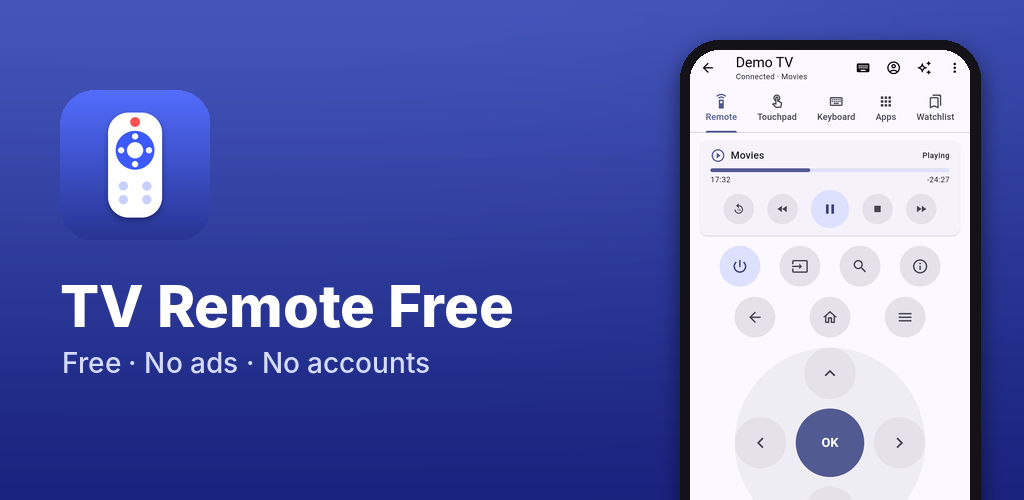
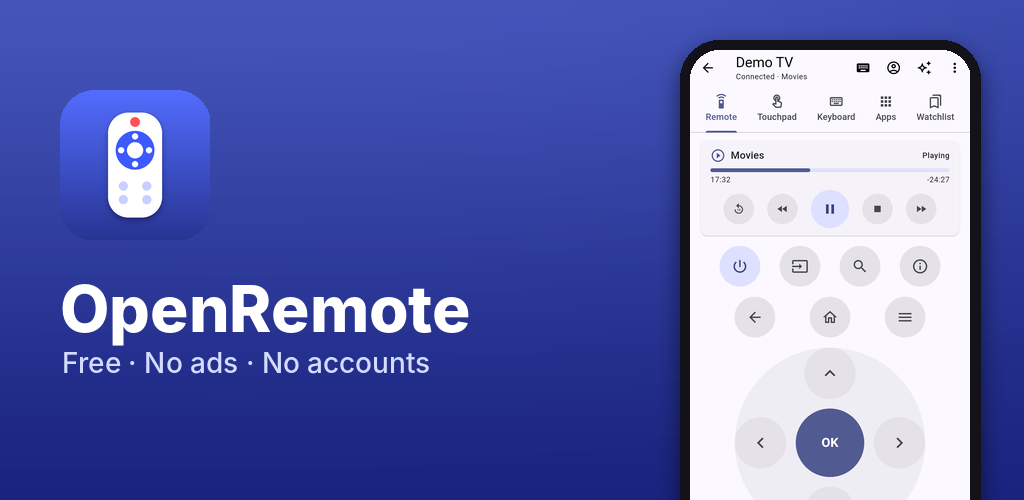
Rename the app to OpenRemote: TV Remote
Display name on both platforms, in-app title and About, the name shown
on TVs when pairing, privacy policy, docs, listing and feature graphic.
Theme/layout file format ids (tv-remote-free-*) are unchanged so
exported files keep working.

Claude-Session: https://claude.ai/code/session_01VuCDHX3dnNtg4HYbL8SU2y

Changed region(s): [[0.0625, 0.57, 0.5, 0.69]]

diff --git a/android/app/src/main/kotlin/org/tvremotefree/tv_remote_free/MainActivity.kt b/android/app/src/main/kotlin/org/tvremotefree/tv_remote_free/MainActivity.kt
@@ -33,7 +33,7 @@ class MainActivity : FlutterActivity() {
         super.configureFlutterEngine(flutterEngine)
         val messenger = flutterEngine.dartExecutor.binaryMessenger
 
-        // Links shared from other apps ("Share" -> TV Remote Free) go to the
+        // Links shared from other apps ("Share" -> OpenRemote) go to the
         // watchlist. Dart pulls the launch share and is pushed later ones.
         shareChannel = MethodChannel(messenger, "tv_remote_free/share").apply {
             setMethodCallHandler { call, result ->

diff --git a/lib/features/settings/settings_screen.dart b/lib/features/settings/settings_screen.dart
@@ -191,7 +191,7 @@ class SettingsScreen extends ConsumerWidget {
           ),
           const AboutListTile(
             icon: Icon(Icons.info_outline),
-            applicationName: 'TV Remote Free',
+            applicationName: 'OpenRemote',
             applicationLegalese:
                 'Free and open source under the Apache License 2.0. No ads, '
                 'no tracking, no accounts. Works only on your local network.\n\n'

diff --git a/lib/app/app.dart b/lib/app/app.dart
@@ -67,7 +67,7 @@ class _TvRemoteAppState extends ConsumerState<TvRemoteApp> {
     final themeMode = ref.watch(settingsProvider.select((s) => s.themeMode));
     final theme = ref.watch(activeThemeProvider);
     return MaterialApp(
-      title: 'TV Remote Free',
+      title: 'OpenRemote',
       navigatorKey: _navigator,
       debugShowCheckedModeBanner: false,
       theme: AppTheme.light(theme),

diff --git a/lib/protocols/samsung/samsung_adapter.dart b/lib/protocols/samsung/samsung_adapter.dart
@@ -25,7 +25,7 @@ class SamsungAdapter implements SmartTVAdapter {
     required this.host,
     this.endpoints,
     Uri? infoUri,
-    this.appName = 'TV Remote Free',
+    this.appName = 'OpenRemote',
     this.connectTimeout = const Duration(seconds: 5),
     this.requestTimeout = const Duration(seconds: 5),
     this.pairingTimeout = const Duration(seconds: 60),

diff --git a/lib/protocols/android_tv/atv_adapter.dart b/lib/protocols/android_tv/atv_adapter.dart
@@ -54,7 +54,7 @@ class AndroidTvAdapter implements SmartTVAdapter {
     required this.host,
     this.remotePort = 6466,
     this.pairingPort = 6467,
-    this.clientName = 'TV Remote Free',
+    this.clientName = 'OpenRemote',
     this.keySize = 2048,
     this.connectTimeout = const Duration(seconds: 5),
     this.responseTimeout = const Duration(seconds: 10),

diff --git a/lib/features/themes/theme_definition.dart b/lib/features/themes/theme_definition.dart
@@ -193,7 +193,7 @@ class ThemeDefinition {
     final json = decoded;
     if (json['format'] != themeFormatId) {
       throw const ThemeFormatException(
-        'This is not a TV Remote Free theme ("format" is missing or wrong).',
+        'This is not a OpenRemote theme ("format" is missing or wrong).',
       );
     }
     final version = json['version'];

diff --git a/lib/features/themes/theme_library.dart b/lib/features/themes/theme_library.dart
@@ -24,7 +24,7 @@ const _defaultThemeJson = '''
   "version": 1,
   "id": "builtin.default",
   "name": "Default",
-  "author": "TV Remote Free",
+  "author": "OpenRemote",
   "description": "The standard look. Follows the system light/dark setting.",
   "colors": { "seed": "#3D5AFE" }
 }''';

diff --git a/lib/protocols/demo/demo_driver.dart b/lib/protocols/demo/demo_driver.dart
@@ -13,7 +13,7 @@ class DemoDriver extends ProtocolDriver {
     id: 'demo:tv',
     name: 'Demo TV',
     protocol: Protocols.demo,
-    manufacturer: 'TV Remote Free',
+    manufacturer: 'OpenRemote',
     model: 'Simulated TV',
   );
 

diff --git a/tool/make_store_images.py b/tool/make_store_images.py
@@ -110,7 +110,7 @@ def feature_graphic():
     mask = Image.new('L', icon.size, 0)
     ImageDraw.Draw(mask).rounded_rectangle([0, 0, 150, 150], 34, fill=255)
     img.paste(icon, (60, 90), mask)
-    d.text((60, 270), 'TV Remote Free', font=font('ExtraBold', 58), fill='white')
+    d.text((60, 270), 'OpenRemote', font=font('ExtraBold', 64), fill='white')
     d.text((62, 345), 'Free · No ads · No accounts', font=font('Medium', 28), fill=(214, 220, 255))
     raw = Image.open(os.path.join(RAW, '2_remote.png'))
     framed, pad = phone(raw, 300)

diff --git a/store/LISTING.md b/store/LISTING.md
@@ -1,7 +1,12 @@
-# Store listing — TV Remote Free
+# Store listing — OpenRemote: TV Remote
 
 Copy these into App Store Connect and the Google Play Console. Character
 limits were checked by `tool/check_listing.py`.
+
+The name: an app called "OpenRemote" (an IoT platform by OpenRemote BV)
+already exists on the App Store, so Apple may refuse the exact name, and its
+owner could object. The ": TV Remote" suffix keeps the title unique; if
+App Store Connect still rejects it, try "OpenRemote TV" or another name.
 
 Brand names appear only to say what the app works with ("works with …").
 They are kept out of the app name, subtitle, keywords and Play short
@@ -14,7 +19,7 @@ file takedowns against apps that use their brands as titles.
 ## App Store
 
 **Name** (30)
-TV Remote Free
+OpenRemote: TV Remote
 
 **Subtitle** (30)
 Free remote for your smart TV
@@ -26,7 +31,7 @@ Control your TV from your phone: remote, keyboard, touchpad, apps and a watchlis
 remote,tv remote,smart tv,universal,controller,keyboard,touchpad,wifi,television,free,watchlist
 
 **Description** (4000)
-TV Remote Free turns your phone into a remote for the smart TVs in your home. It's completely free and open source, with no ads, no subscriptions, no accounts and no tracking. It talks only to the TVs on your Wi-Fi.
+OpenRemote turns your phone into a remote for the smart TVs in your home. It's completely free and open source, with no ads, no subscriptions, no accounts and no tracking. It talks only to the TVs on your Wi-Fi.
 
 WORKS WITH
 • Roku TVs and players
@@ -74,14 +79,14 @@ First release. Remote, keyboard, touchpad, apps, watchlist, themes and custom re
 **Support URL:** https://github.com/yourmomsbasement/Tv-Remote_Free/issues
 **Marketing URL:** https://github.com/yourmomsbasement/Tv-Remote_Free
 **Privacy Policy URL:** https://github.com/yourmomsbasement/Tv-Remote_Free/blob/master/docs/PRIVACY.md
-**Copyright:** 2026 TV Remote Free contributors
+**Copyright:** 2026 OpenRemote: TV Remote contributors
 
 ---
 
 ## Google Play
 
 **App name** (30)
-TV Remote Free
+OpenRemote: TV Remote
 
 **Short description** (80)
 Free, ad-free TV remote with phone keyboard, touchpad, apps and a watchlist.

diff --git a/docs/PRIVACY.md b/docs/PRIVACY.md
@@ -1,8 +1,8 @@
-# Privacy policy — TV Remote Free
+# Privacy policy — OpenRemote
 
 _Last updated: 13 October 2026_
 
-TV Remote Free is a free, open-source remote control for smart TVs. It is
+OpenRemote is a free, open-source remote control for smart TVs. It is
 built to work entirely on your home network.
 
 ## What we collect

diff --git a/README.md b/README.md
@@ -1,4 +1,4 @@
-# TV Remote Free
+# OpenRemote: TV Remote
 
 A free, open-source smart TV remote for Android and iOS, built with Flutter.
 It works entirely on your local Wi-Fi: no accounts, ads, tracking or paid
